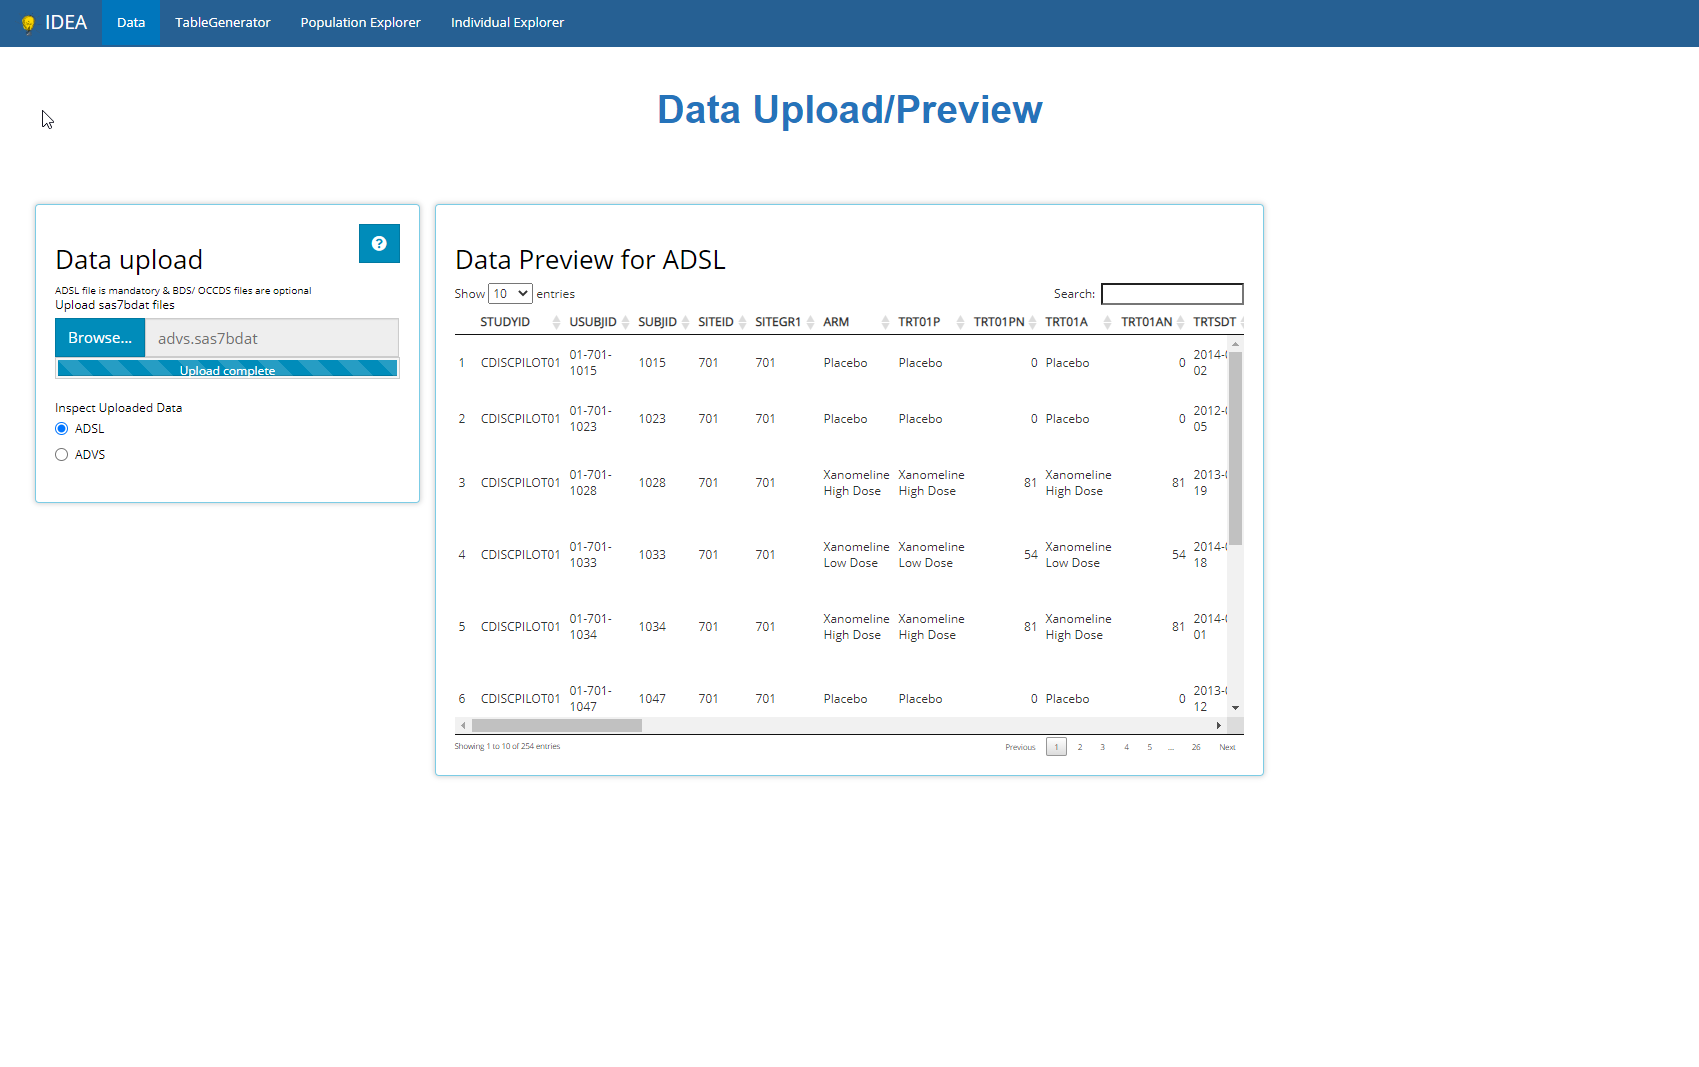
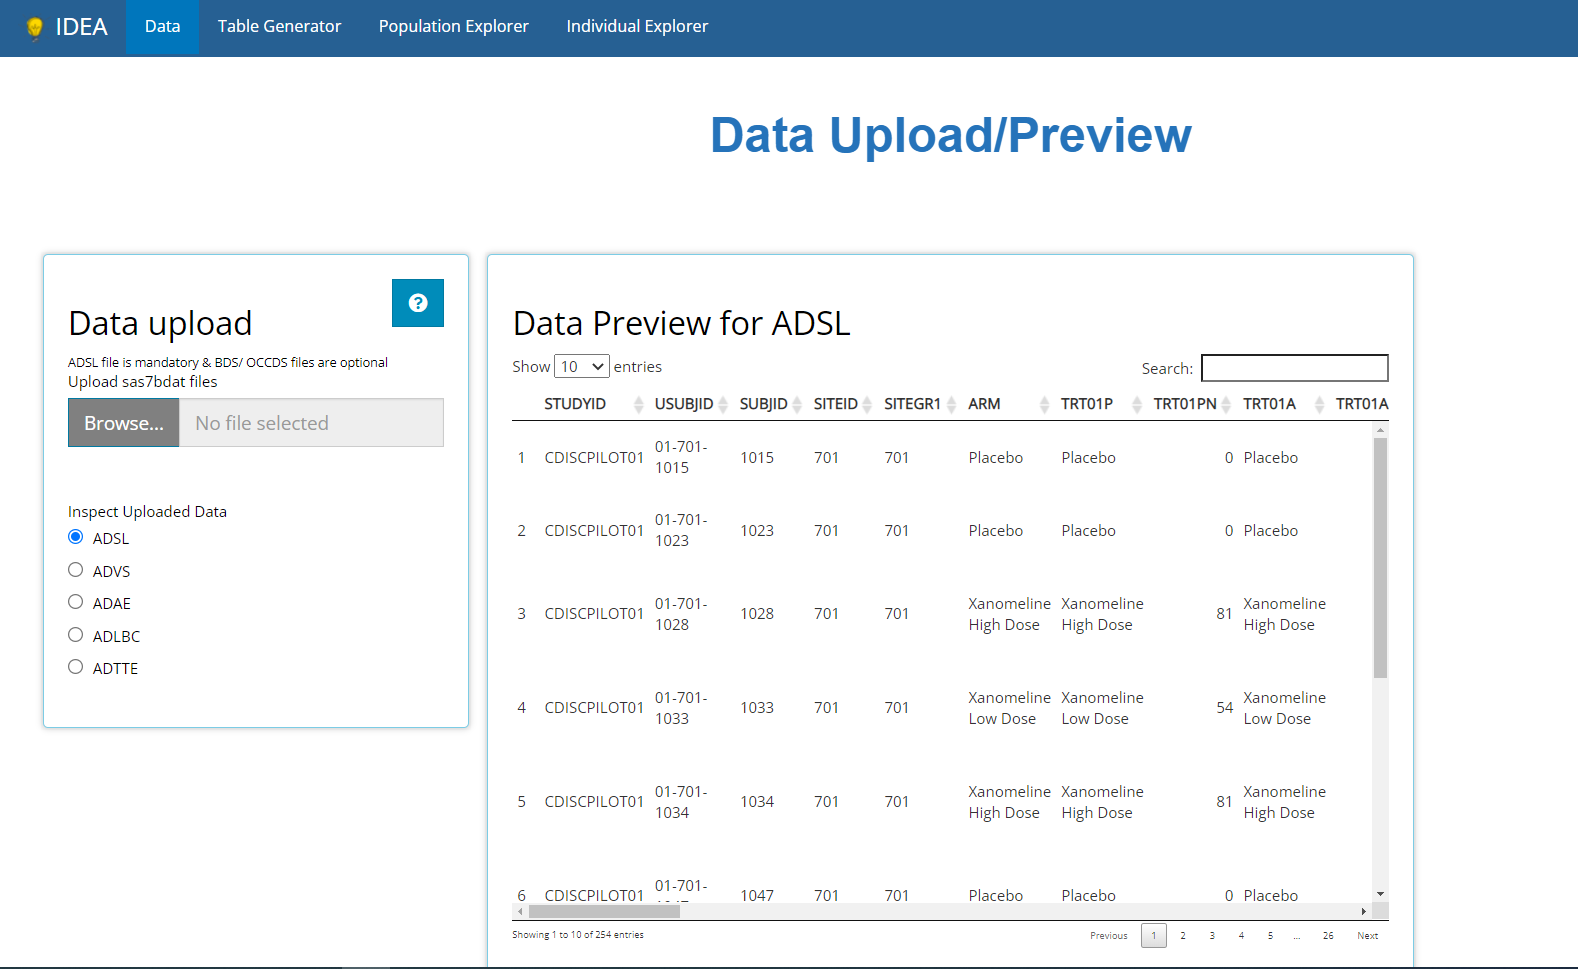
rough draft of tg started

diff --git a/docs/articles/x01_Table_Generator.html b/docs/articles/x01_Table_Generator.html
@@ -104,47 +104,81 @@
     
     
 <p>Let’s walk through creating simple summary statistics using the CDISC Pilot data in conjunction with the Table Generator.</p>
-<div id="import-data" class="section level1">
-<h1 class="hasAnchor">
-<a href="#import-data" class="anchor"></a>Import Data</h1>
-<p>We can import data by clicking the ‘Browse’ button and selecting the files to upload. Here we’ve included the <code>adsl.sas7bdat</code> and <code>advs.sas7bdat</code> from the CDISC Pilot</p>
-<p><img src="figures/tableGen/01-dataupload.png" width="90%" height="90%"></p>
-</div>
-<div id="creating-tables" class="section level1">
-<h1 class="hasAnchor">
-<a href="#creating-tables" class="anchor"></a>Creating Tables</h1>
-<p>This tutorial will walk you through calculating simple statistics for an <code>ADSL</code> variable and a <code>PARAMCD</code> variable which must be calculated at a certain time point.</p>
-<p>Selecting the Table Generator tab results in the following screen which is divded in two: the area to create our tables using a drag and drop interface, and the table output. Because we uploaded two datasets we have to bins of blocks, an <code>ADSL</code> bin and <code>ADVS</code> bin. The <code>ADSL</code> bin includes all the column names of the variables inside <code>ADSL</code>, while the <code>ADVS</code> bin include the different PARAMCDs.</p>
-<p><img src="figures/tableGen/02-TG.png" width="90%" height="90%"></p>
-<div id="age-summary-statistics" class="section level2">
+<div id="import-data" class="section level2">
 <h2 class="hasAnchor">
-<a href="#age-summary-statistics" class="anchor"></a>Age Summary Statistics</h2>
+<a href="#import-data" class="anchor"></a>Import Data</h2>
+<p>We can import data by clicking the ‘Browse’ button and selecting the files to upload. Here we’ll use the CDISC Pilot data, which includes an <code>ADSL</code>, <code>ADVS</code>, <code>ADAE</code>, <code>ADLBC</code>, and <code>ADTTE</code>. You can peek at the data here, but there is no need - we’re going straight to the Table Generator tab.</p>
+<p><img src="figures/tableGen/quick_upload_then_tg.gif"><!-- --></p>
+</div>
+<div id="building-an-example-table-from-scratch" class="section level2">
+<h2 class="hasAnchor">
+<a href="#building-an-example-table-from-scratch" class="anchor"></a>Building an example table from scratch</h2>
+<p>This tutorial will walk you through calculating simple statistics for an <code>ADSL</code> variable and the <code>AVAL</code> values for a <code>PARAMCD</code> variable, calculated at a different time points in the <code>ADVS</code>.</p>
+<p>The Table Generator tab is divided in two: the area to the left is the drag-and-drop interface used to build tables, and on the right is the real-time table output. Any uploaded data sets will appear on the left-hand side as “bins”. We call them “bins” because they are just containers, showcasing contents of the data set when expanded. The <code>ADSL</code> &amp; <code>ADAE</code> bins include all the names of all their variables, while any <code>BDS</code> data sets, like the <code>ADVS</code> &amp; <code>ADLBC</code> bins include a list of all the <code>PARAMCD</code> values.</p>
+<p><img src="figures/tableGen/bins.gif"><!-- --></p>
+<div id="age-summary-statistics" class="section level3">
+<h3 class="hasAnchor">
+<a href="#age-summary-statistics" class="anchor"></a>Age Summary Statistics</h3>
 <p>We can drag the <code>AGE</code> block from within <code>ADSL</code> and drag in the <code>MEAN</code> block from the statistical blocks to calculate summary statistics for <code>AGE</code> within the trial.</p>
 <p><img src="figures/tableGen/03-age_mean.gif"><!-- --></p>
 </div>
-<div id="paramcd-summary-statistics" class="section level2">
-<h2 class="hasAnchor">
-<a href="#paramcd-summary-statistics" class="anchor"></a>PARAMCD Summary Statistics</h2>
+<div id="paramcd-summary-statistics" class="section level3">
+<h3 class="hasAnchor">
+<a href="#paramcd-summary-statistics" class="anchor"></a>PARAMCD Summary Statistics</h3>
 <p>Similarly, we can drag in <code>DIABP</code> from <code>ADVS</code> and use the <code>MEAN</code> block to calculate summary statistics. However, we also need to select the <code>AVISIT</code> from the week dropdown in order to calculate the summary statistics of <code>DIABP</code> at a certain week.</p>
 <p><img src="figures/tableGen/04-diabp_mean.gif"><!-- --></p>
 </div>
-<div id="group-by-another-variable" class="section level2">
+<div id="add-freq-stats-re-shuffle-and-deleting-output" class="section level3">
+<h3 class="hasAnchor">
+<a href="#add-freq-stats-re-shuffle-and-deleting-output" class="anchor"></a>Add Freq stats, re-shuffle, and deleting output</h3>
+<p>Now let’s assume we forgot to add some frequency statistics for our studies age groups. In fact, we really prefer it over the quantitative statistics previously calculated on the <code>AGE</code> variable. It’s no problem! We simply go back to our <code>ADSL</code> bin, select &amp; move the <code>AGEGRP1</code> variable to the “drop zone” and pair it with a <code>FREQ</code> stat block. Recently added blocks are always added to the bottom of the list, but that’s no worry, once added, you can shuffle the block around to present the output in a logical manner! To remove an undesired output, just click the <code>X</code> on the right hand side of each variable &amp; corresponding stat block.</p>
+<p><img src="figures/tableGen/add_freq_reshuffle_delete.gif"><!-- --></p>
+</div>
+<div id="group-by-another-variable" class="section level3">
+<h3 class="hasAnchor">
+<a href="#group-by-another-variable" class="anchor"></a>Group by another Variable</h3>
+<p>We can use the <code>Group By</code> drop-down list to calculate our statistics across groups. When we select <code>TRT01P</code>, the a single column of statistics in the output is now broken down by all the planned treatment groups!</p>
+<p><img src="figures/tableGen/grouping.gif"><!-- --></p>
+</div>
+<div id="title-and-download-table-output" class="section level3">
+<h3 class="hasAnchor">
+<a href="#title-and-download-table-output" class="anchor"></a>Title and download table output</h3>
+<p>Now that you’ve created a simple table of information you needed, it’s time to name it and download. Below, we insert our table title and download as CSV for further use or sharing with co-workers. Currently, the app supports CSV and HTML output formats, but PDF and RTF are coming soon!</p>
+<p><br></p>
+<p><img src="figures/tableGen/title_download.gif"><!-- --></p>
+<p><br><br></p>
+<p>That’s it for our example workflow when building tables from scratch. However, the table generator offers many more features, including filtering, other statistical blocks, recipes for standard analysis (STAN) tables, more export file types for output, exported R code to reproduce the table, and in-app guided help. Those topics are expanded on below!</p>
+</div>
+</div>
+<div id="filtering-data-in-the-table-generator" class="section level2">
 <h2 class="hasAnchor">
-<a href="#group-by-another-variable" class="anchor"></a>Group by another Variable</h2>
-<p>Lastly, we can use the <code>Group By</code> dropdown to calculate our statistics across groups. When we select <code>ARM</code>, rather than have a single column in the output table we now see the <code>DIABP</code> summary statics for each treatment group.</p>
-<p><img src="figures/tableGen/05-grouping.png" width="90%" height="90%"></p>
-<p>And that’s it!</p>
+<a href="#filtering-data-in-the-table-generator" class="anchor"></a>Filtering data in the table generator</h2>
 </div>
-</div>
-<div id="other-statistics" class="section level1">
-<h1 class="hasAnchor">
-<a href="#other-statistics" class="anchor"></a>Other Statistics</h1>
+<div id="other-stat-blocks" class="section level2">
+<h2 class="hasAnchor">
+<a href="#other-stat-blocks" class="anchor"></a>Other Stat blocks</h2>
 <p>The other statistical blocks we did not showcase in the demo are:</p>
 <ul>
 <li><p><code>ANOVA:</code> this block can be used in conjunction with the grouping variable dropdown to compare a variable across groups.</p></li>
 <li><p><code>CHG:</code> like the mean block, this also calculates basic summary statistics but uses the change from baseline value rather than <code>AVAL</code></p></li>
 <li><p><code>FREQ:</code> For categorical data you can calculate the frequency of variables. This too can be broken down into groups using the <code>Group By</code> dropdown</p></li>
 </ul>
+</div>
+<div id="standard-analysis-stan-tables" class="section level2">
+<h2 class="hasAnchor">
+<a href="#standard-analysis-stan-tables" class="anchor"></a>Standard Analysis (STAN) Tables</h2>
+</div>
+<div id="export-output-file-types" class="section level2">
+<h2 class="hasAnchor">
+<a href="#export-output-file-types" class="anchor"></a>Export output file types</h2>
+</div>
+<div id="export-r-code-to-reproduce-table-outside-of-app" class="section level2">
+<h2 class="hasAnchor">
+<a href="#export-r-code-to-reproduce-table-outside-of-app" class="anchor"></a>Export R code to reproduce table outside of app</h2>
+</div>
+<div id="need-help" class="section level2">
+<h2 class="hasAnchor">
+<a href="#need-help" class="anchor"></a>Need help?</h2>
 </div>
   </div>
 

diff --git a/docs/articles/IDEA.html b/docs/articles/IDEA.html
@@ -103,16 +103,35 @@
 
     
     
-<div class="sourceCode" id="cb1"><pre class="downlit sourceCode r">
-<code class="sourceCode R"><span class="kw"><a href="https://rdrr.io/r/base/library.html">library</a></span><span class="op">(</span><span class="va"><a href="https://github.biogen.com/pages/biometrics/SEER/">IDEA</a></span><span class="op">)</span>
-<span class="co">#&gt; Registered S3 method overwritten by 'GGally':</span>
-<span class="co">#&gt;   method from   </span>
-<span class="co">#&gt;   +.gg   ggplot2</span></code></pre></div>
+<p>Greetings! The IDEA app is a robust tool which empowers its users to glean informative knowledge from clinical trial data with little resistance. To prove this, we’ll take you on a brisk tour of the app, traversing all of it’s wonderful features from each tab of the application. Without any further adieu, welcome to IDEA’s landing page:</p>
+<p><br></p>
+<div id="upload-data" class="section level1">
+<h1 class="hasAnchor">
+<a href="#upload-data" class="anchor"></a>Upload Data</h1>
+<p>We cannot learn anything without some (ADaM-ish) data. At a minimum, you’ll need an <code>ADSL</code> sas7bdat file to get started, and the more data you bring, the more features and insights you can explore. We can import data by clicking the ‘Browse’ button and selecting the files to upload from your computer or mapped network drives. In this way, the IDEA application is very secure, since you must have permissions to certain folders/ study directories to upload that studies data. This tutorial will use 4 files: An ADSL, two BDS’ (ADVS &amp; ADLBC), and 1 OCCD (an ADAE), all from the CDISC pilot study.</p>
+<p><br></p>
+<p><img src="figures/IndvExp/01_dataUpload.PNG" width="155" height="60%"></p>
+<p>There is more to be said about importing data, like, “What constitutes ADaM-ish data?” or “What if my data set won’t upload?” To learn more on the topic, head over to the article titled <a href="https://github.biogen.com/pages/biometrics/SEER/articles/x00_Data_Upload.html">00 Data Upload</a>; you’ll be glad you did!</p>
+</div>
+<div id="table-generator" class="section level1">
+<h1 class="hasAnchor">
+<a href="#table-generator" class="anchor"></a>Table Generator</h1>
+</div>
+<div id="population-explorer" class="section level1">
+<h1 class="hasAnchor">
+<a href="#population-explorer" class="anchor"></a>Population Explorer</h1>
+</div>
+<div id="individual-explorer" class="section level1">
+<h1 class="hasAnchor">
+<a href="#individual-explorer" class="anchor"></a>Individual Explorer</h1>
+</div>
   </div>
 
   <div class="col-md-3 hidden-xs hidden-sm" id="pkgdown-sidebar">
 
-      </div>
+        <nav id="toc" data-toggle="toc"><h2 data-toc-skip>Contents</h2>
+    </nav>
+</div>
 
 </div>
 
